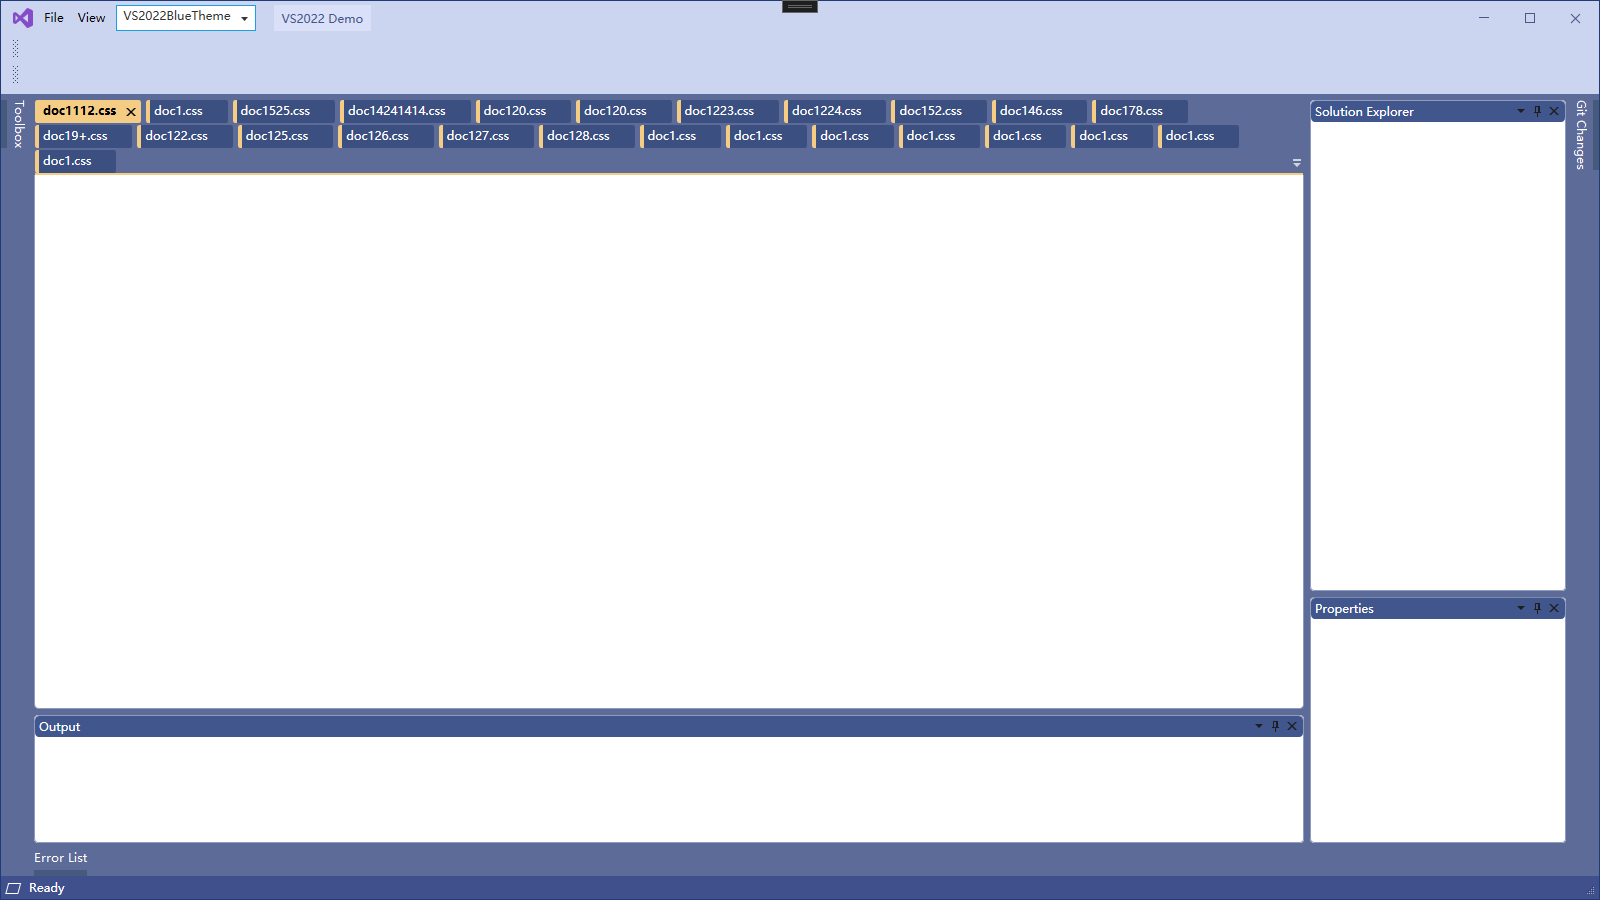
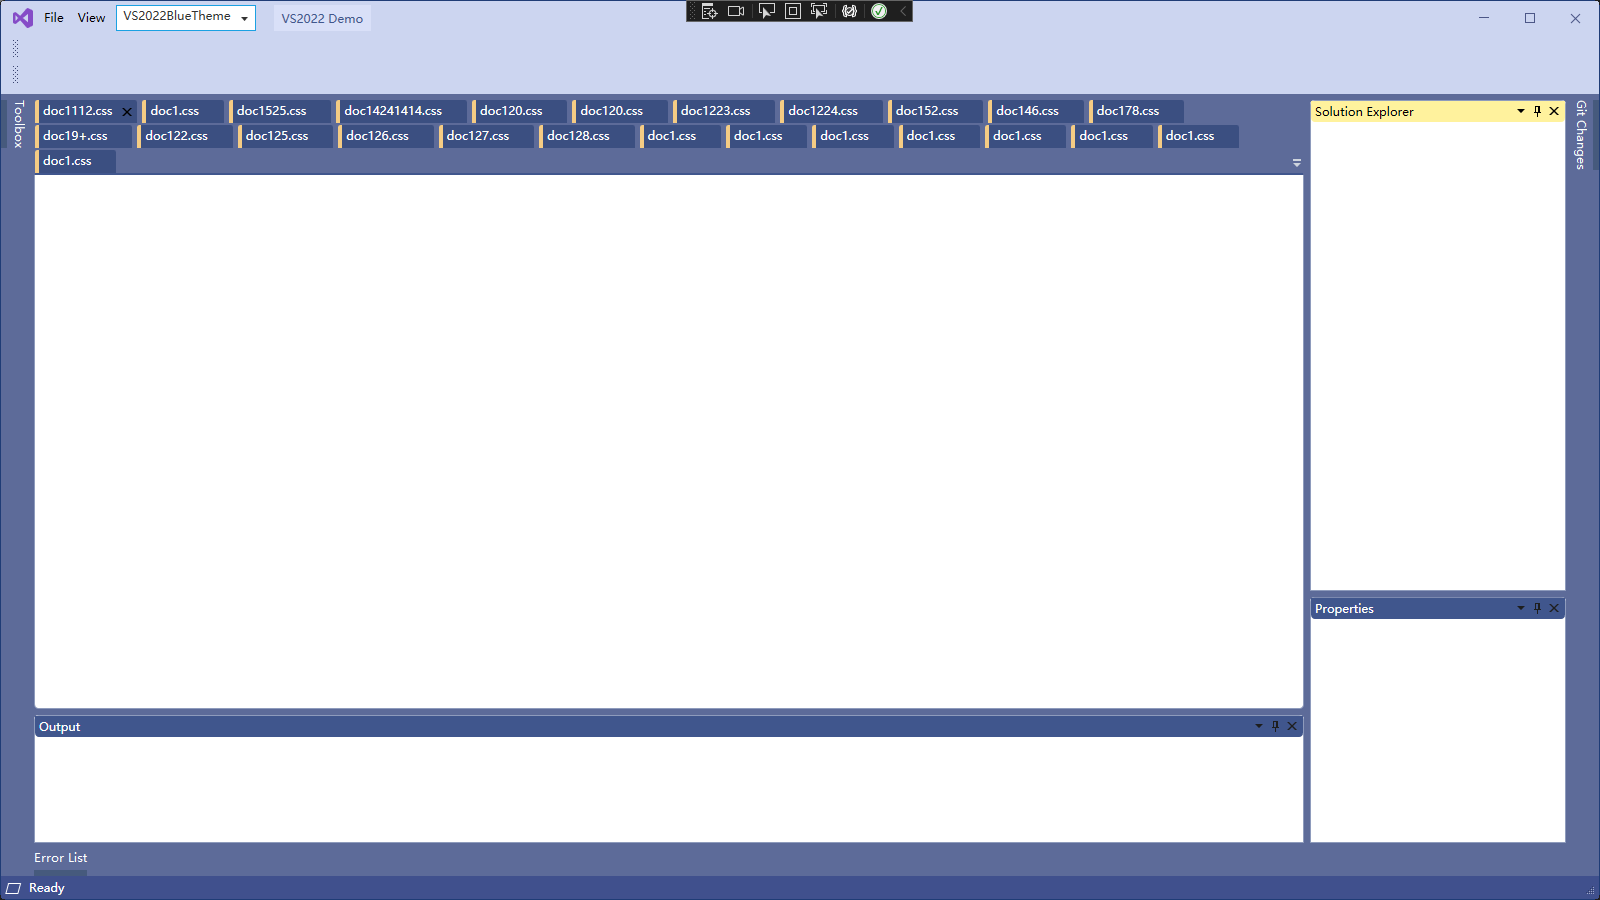
重新上传图片,修改readme

Changed region(s): [[0.0312, 0.0933, 0.7188, 0.1556], [0.8125, 0.0933, 1.0, 0.1556], [0.4062, 0.0, 0.5938, 0.0311]]

diff --git a/README.md b/README.md
@@ -36,10 +36,95 @@
    </tr>
 
 </table>
+<br>
+<table width="100%">
+   <tr>
+      <td>theme</td>
+      <td>无</td>
+      <td>淡紫色</td>
+      <td>金色</td>
+      <td>蓝绿色</td>
+      <td>绛紫色</td>
+      <td>绿色</td>
+      <td>棕色</td>
+      <td>亮蓝色</td>
+      <td>南瓜色</td>
+      <td>灰色</td>
+      <td>珊瑚橘</td>
+      <td>青色</td>
+      <td>品红</td>
+      <td>薄荷绿</td>
+      <td>深棕色</td>
+      <td>蓝色</td>
+      <td>粉色</td>
+   </tr>
+   <tr>
+      <td>Dark</td>
+      <td><img src="https://gitee.com/liu_meiling/avalon-dock-for-wpf/raw/master/source/Picture/VS2022-Dark-无.png" width="400"></td>
+      <td><img src="https://gitee.com/liu_meiling/avalon-dock-for-wpf/raw/master/source/Picture/VS2022-Dark-淡紫色.png" width="400"></td>
+      <td><img src="https://gitee.com/liu_meiling/avalon-dock-for-wpf/raw/master/source/Picture/VS2022-Dark-金色.png" width="400"></td>
+      <td><img src="https://gitee.com/liu_meiling/avalon-dock-for-wpf/raw/master/source/Picture/VS2022-Dark-蓝绿色.png" width="400"></td>
+      <td><img src="https://gitee.com/liu_meiling/avalon-dock-for-wpf/raw/master/source/Picture/VS2022-Dark-绛紫色.png" width="400"></td>
+      <td><img src="https://gitee.com/liu_meiling/avalon-dock-for-wpf/raw/master/source/Picture/VS2022-Dark-绿色.png" width="400"></td>
+      <td><img src="https://gitee.com/liu_meiling/avalon-dock-for-wpf/raw/master/source/Picture/VS2022-Dark-棕色.png" width="400"></td>
+      <td><img src="https://gitee.com/liu_meiling/avalon-dock-for-wpf/raw/master/source/Picture/VS2022-Dark-亮蓝色.png" width="400"></td>
+      <td><img src="https://gitee.com/liu_meiling/avalon-dock-for-wpf/raw/master/source/Picture/VS2022-Dark-南瓜色.png" width="400"></td>
+      <td><img src="https://gitee.com/liu_meiling/avalon-dock-for-wpf/raw/master/source/Picture/VS2022-Dark-灰色.png" width="400"></td>
+      <td><img src="https://gitee.com/liu_meiling/avalon-dock-for-wpf/raw/master/source/Picture/VS2022-Dark-珊瑚橘.png" width="400"></td>
+      <td><img src="https://gitee.com/liu_meiling/avalon-dock-for-wpf/raw/master/source/Picture/VS2022-Dark-青色.png" width="400"></td>
+      <td><img src="https://gitee.com/liu_meiling/avalon-dock-for-wpf/raw/master/source/Picture/VS2022-Dark-品红.png" width="400"></td>
+      <td><img src="https://gitee.com/liu_meiling/avalon-dock-for-wpf/raw/master/source/Picture/VS2022-Dark-薄荷绿.png" width="400"></td>
+      <td><img src="https://gitee.com/liu_meiling/avalon-dock-for-wpf/raw/master/source/Picture/VS2022-Dark-深棕色.png" width="400"></td>
+      <td><img src="https://gitee.com/liu_meiling/avalon-dock-for-wpf/raw/master/source/Picture/VS2022-Dark-蓝色.png" width="400"></td>
+      <td><img src="https://gitee.com/liu_meiling/avalon-dock-for-wpf/raw/master/source/Picture/VS2022-Dark-粉色.png" width="400"></td>
+   </tr>
+   <tr>
+      <td>Light</td>
+      <td><img src="https://gitee.com/liu_meiling/avalon-dock-for-wpf/raw/master/source/Picture/VS2022-Light-无.png" width="400"></td>
+      <td><img src="https://gitee.com/liu_meiling/avalon-dock-for-wpf/raw/master/source/Picture/VS2022-Light-淡紫色.png" width="400"></td>
+      <td><img src="https://gitee.com/liu_meiling/avalon-dock-for-wpf/raw/master/source/Picture/VS2022-Light-金色.png" width="400"></td>
+      <td><img src="https://gitee.com/liu_meiling/avalon-dock-for-wpf/raw/master/source/Picture/VS2022-Light-蓝绿色.png" width="400"></td>
+      <td><img src="https://gitee.com/liu_meiling/avalon-dock-for-wpf/raw/master/source/Picture/VS2022-Light-绛紫色.png" width="400"></td>
+      <td><img src="https://gitee.com/liu_meiling/avalon-dock-for-wpf/raw/master/source/Picture/VS2022-Light-绿色.png" width="400"></td>
+      <td><img src="https://gitee.com/liu_meiling/avalon-dock-for-wpf/raw/master/source/Picture/VS2022-Light-棕色.png" width="400"></td>
+      <td><img src="https://gitee.com/liu_meiling/avalon-dock-for-wpf/raw/master/source/Picture/VS2022-Light-亮蓝色.png" width="400"></td>
+      <td><img src="https://gitee.com/liu_meiling/avalon-dock-for-wpf/raw/master/source/Picture/VS2022-Light-南瓜色.png" width="400"></td>
+      <td><img src="https://gitee.com/liu_meiling/avalon-dock-for-wpf/raw/master/source/Picture/VS2022-Light-灰色.png" width="400"></td>
+      <td><img src="https://gitee.com/liu_meiling/avalon-dock-for-wpf/raw/master/source/Picture/VS2022-Light-珊瑚橘.png" width="400"></td>
+      <td><img src="https://gitee.com/liu_meiling/avalon-dock-for-wpf/raw/master/source/Picture/VS2022-Light-青色.png" width="400"></td>
+      <td><img src="https://gitee.com/liu_meiling/avalon-dock-for-wpf/raw/master/source/Picture/VS2022-Light-品红.png" width="400"></td>
+      <td><img src="https://gitee.com/liu_meiling/avalon-dock-for-wpf/raw/master/source/Picture/VS2022-Light-薄荷绿.png" width="400"></td>
+      <td><img src="https://gitee.com/liu_meiling/avalon-dock-for-wpf/raw/master/source/Picture/VS2022-Light-深棕色.png" width="400"></td>
+      <td><img src="https://gitee.com/liu_meiling/avalon-dock-for-wpf/raw/master/source/Picture/VS2022-Light-蓝色.png" width="400"></td>
+      <td><img src="https://gitee.com/liu_meiling/avalon-dock-for-wpf/raw/master/source/Picture/VS2022-Light-粉色.png" width="400"></td>
+
+   </tr>
+   <tr>
+      <td>Blue</td>
+      <td><img src="https://gitee.com/liu_meiling/avalon-dock-for-wpf/raw/master/source/Picture/VS2022-Blue-无.png" width="400"></td>
+      <td><img src="https://gitee.com/liu_meiling/avalon-dock-for-wpf/raw/master/source/Picture/VS2022-Blue-淡紫色.png" width="400"></td>
+      <td><img src="https://gitee.com/liu_meiling/avalon-dock-for-wpf/raw/master/source/Picture/VS2022-Blue-金色.png" width="400"></td>
+      <td><img src="https://gitee.com/liu_meiling/avalon-dock-for-wpf/raw/master/source/Picture/VS2022-Blue-蓝绿色.png" width="400"></td>
+      <td><img src="https://gitee.com/liu_meiling/avalon-dock-for-wpf/raw/master/source/Picture/VS2022-Blue-绛紫色.png" width="400"></td>
+      <td><img src="https://gitee.com/liu_meiling/avalon-dock-for-wpf/raw/master/source/Picture/VS2022-Blue-绿色.png" width="400"></td>
+      <td><img src="https://gitee.com/liu_meiling/avalon-dock-for-wpf/raw/master/source/Picture/VS2022-Blue-棕色.png" width="400"></td>
+      <td><img src="https://gitee.com/liu_meiling/avalon-dock-for-wpf/raw/master/source/Picture/VS2022-Blue-亮蓝色.png" width="400"></td>
+      <td><img src="https://gitee.com/liu_meiling/avalon-dock-for-wpf/raw/master/source/Picture/VS2022-Blue-南瓜色.png" width="400"></td>
+      <td><img src="https://gitee.com/liu_meiling/avalon-dock-for-wpf/raw/master/source/Picture/VS2022-Blue-灰色.png" width="400"></td>
+      <td><img src="https://gitee.com/liu_meiling/avalon-dock-for-wpf/raw/master/source/Picture/VS2022-Blue-珊瑚橘.png" width="400"></td>
+      <td><img src="https://gitee.com/liu_meiling/avalon-dock-for-wpf/raw/master/source/Picture/VS2022-Blue-青色.png" width="400"></td>
+      <td><img src="https://gitee.com/liu_meiling/avalon-dock-for-wpf/raw/master/source/Picture/VS2022-Blue-品红.png" width="400"></td>
+      <td><img src="https://gitee.com/liu_meiling/avalon-dock-for-wpf/raw/master/source/Picture/VS2022-Blue-薄荷绿.png" width="400"></td>
+      <td><img src="https://gitee.com/liu_meiling/avalon-dock-for-wpf/raw/master/source/Picture/VS2022-Blue-深棕色.png" width="400"></td>
+      <td><img src="https://gitee.com/liu_meiling/avalon-dock-for-wpf/raw/master/source/Picture/VS2022-Blue-蓝色.png" width="400"></td>
+      <td><img src="https://gitee.com/liu_meiling/avalon-dock-for-wpf/raw/master/source/Picture/VS2022-Blue-粉色.png" width="400"></td>
+   </tr>
+
+</table>
 
 ## Theming
 
-Using the *AvalonDock.Themes.VS2012* theme is very easy with *Dark* and *Light* and *Blue* themes.
+Using the *AvalonDock.Themes.VS2022* theme is very easy with *Dark* and *Light* and *Blue* themes.
 Just load *Light* or *Dark* or *Blue* brush resources in you resource dictionary to take advantage of existing definitions.
 
 ```XAML
